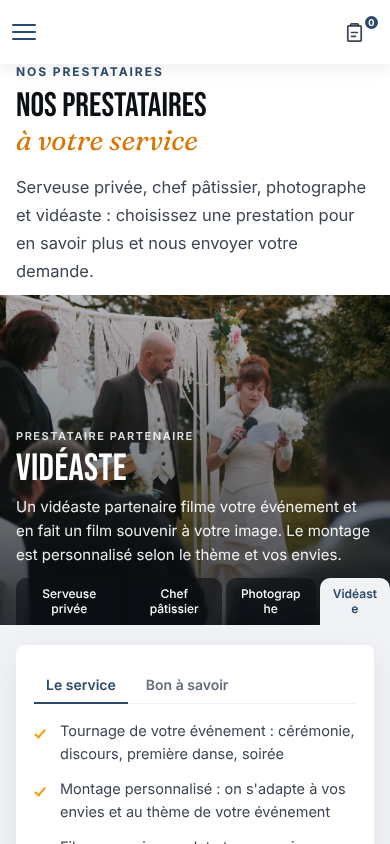
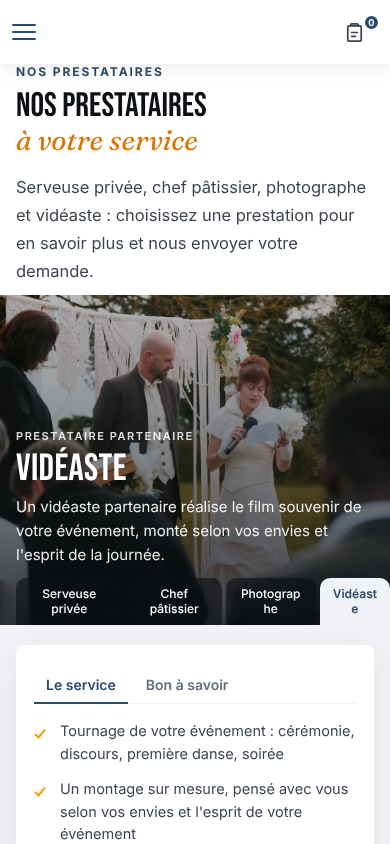
Photographe et vidéaste : formulation sur mesure
Claude-Session: https://claude.ai/code/session_01WQLdmRPaukAjSKqYYAyhYN

Changed region(s): [[0.0308, 0.5853, 0.9538, 0.6777], [0.1538, 0.9242, 0.8923, 1.0]]

diff --git a/site/evenements.html b/site/evenements.html
@@ -948,13 +948,13 @@ var PR=[
   infos:['Prestation réalisée par Emmanuel, prestataire partenaire. Vespra Event encaisse pour son compte et assure la coordination.','Prestation sur devis : selon le nombre de parts, le thème et la complexité','Indiquez vos envies, allergies et contraintes dans les précisions','Prévoyez de commander plusieurs semaines à l\'avance'],
   champs:'parts'},
  {id:'photographe',nom:'Photographe',court:'Photographe',img:'mariage-film-parasol.webp',photo:true,
-  titre:'Photographe',accroche:'Un photographe partenaire immortalise votre événement : les moments forts, les émotions, vos invités. La retouche est personnalisée selon votre thème et vos envies.',
-  service:['Reportage photo de votre événement : préparatifs, cérémonie, vin d\'honneur, soirée','Photos de groupe et portraits, organisés sans perdre de temps','Retouche personnalisée : on s\'adapte à vos envies et au thème de votre événement','Sélection des meilleures photos, avec les moments que vous tenez à retrouver','Remise des photos en haute définition, en galerie en ligne'],
+  titre:'Photographe',accroche:'Un photographe partenaire capture les moments forts, les émotions et vos invités, avec une retouche pensée selon vos envies.',
+  service:['Reportage photo de votre événement : préparatifs, cérémonie, vin d\'honneur, soirée','Photos de groupe et portraits, organisés sans perdre de temps','Une retouche sur mesure, à l\'image de votre événement et de vos envies','Sélection des meilleures photos, avec les moments que vous tenez à retrouver','Remise des photos en haute définition, en galerie en ligne'],
   infos:['Prestation réalisée par un photographe partenaire. Vespra Event encaisse pour son compte et assure la coordination.','Prestation sur devis : le prix dépend de la durée et des moments à couvrir','Précisez l\'horaire de début et de fin souhaité','Vous pouvez la combiner avec le photobooth et le vidéobooth'],
   champs:'heures',rdv:'Un rendez-vous sera organisé avec le photographe partenaire : vous échangez sur vos envies, le déroulé et les moments à ne pas manquer.'},
  {id:'videaste',nom:'Vidéaste',court:'Vidéaste',img:'mariage-film-ceremonie.webp',photo:true,
-  titre:'Vidéaste',accroche:'Un vidéaste partenaire filme votre événement et en fait un film souvenir à votre image. Le montage est personnalisé selon le thème et vos envies.',
-  service:['Tournage de votre événement : cérémonie, discours, première danse, soirée','Montage personnalisé : on s\'adapte à vos envies et au thème de votre événement','Film souvenir complet et une version courte à partager sur les réseaux','Prises de vue soignées, discrètes pour vos invités','Remise des vidéos en haute définition'],
+  titre:'Vidéaste',accroche:'Un vidéaste partenaire réalise le film souvenir de votre événement, monté selon vos envies et l\'esprit de la journée.',
+  service:['Tournage de votre événement : cérémonie, discours, première danse, soirée','Un montage sur mesure, pensé avec vous selon vos envies et l\'esprit de votre événement','Film souvenir complet et une version courte à partager sur les réseaux','Prises de vue soignées, discrètes pour vos invités','Remise des vidéos en haute définition'],
   infos:['Prestation réalisée par un vidéaste partenaire. Vespra Event encaisse pour son compte et assure la coordination.','Prestation sur devis : le prix dépend de la durée de tournage et du montage souhaité','Précisez l\'horaire de début et de fin souhaité','Vous pouvez la combiner avec le photobooth et le vidéobooth'],
   champs:'heures',rdv:'Un rendez-vous sera organisé avec le vidéaste partenaire : vous échangez sur le film que vous souhaitez et le déroulé de la journée.'}
 ];

diff --git a/site/organisation-anniversaire-entreprise.html b/site/organisation-anniversaire-entreprise.html
@@ -923,13 +923,13 @@ var PR=[
   infos:['Prestation réalisée par Emmanuel, prestataire partenaire. Vespra Event encaisse pour son compte et assure la coordination.','Prestation sur devis : selon le nombre de parts, le thème et la complexité','Indiquez vos envies, allergies et contraintes dans les précisions','Prévoyez de commander plusieurs semaines à l\'avance'],
   champs:'parts'},
  {id:'photographe',nom:'Photographe',court:'Photographe',img:'mariage-film-parasol.webp',photo:true,
-  titre:'Photographe',accroche:'Un photographe partenaire immortalise votre événement : les moments forts, les émotions, vos invités. La retouche est personnalisée selon votre thème et vos envies.',
-  service:['Reportage photo de votre événement : préparatifs, cérémonie, vin d\'honneur, soirée','Photos de groupe et portraits, organisés sans perdre de temps','Retouche personnalisée : on s\'adapte à vos envies et au thème de votre événement','Sélection des meilleures photos, avec les moments que vous tenez à retrouver','Remise des photos en haute définition, en galerie en ligne'],
+  titre:'Photographe',accroche:'Un photographe partenaire capture les moments forts, les émotions et vos invités, avec une retouche pensée selon vos envies.',
+  service:['Reportage photo de votre événement : préparatifs, cérémonie, vin d\'honneur, soirée','Photos de groupe et portraits, organisés sans perdre de temps','Une retouche sur mesure, à l\'image de votre événement et de vos envies','Sélection des meilleures photos, avec les moments que vous tenez à retrouver','Remise des photos en haute définition, en galerie en ligne'],
   infos:['Prestation réalisée par un photographe partenaire. Vespra Event encaisse pour son compte et assure la coordination.','Prestation sur devis : le prix dépend de la durée et des moments à couvrir','Précisez l\'horaire de début et de fin souhaité','Vous pouvez la combiner avec le photobooth et le vidéobooth'],
   champs:'heures',rdv:'Un rendez-vous sera organisé avec le photographe partenaire : vous échangez sur vos envies, le déroulé et les moments à ne pas manquer.'},
  {id:'videaste',nom:'Vidéaste',court:'Vidéaste',img:'mariage-film-ceremonie.webp',photo:true,
-  titre:'Vidéaste',accroche:'Un vidéaste partenaire filme votre événement et en fait un film souvenir à votre image. Le montage est personnalisé selon le thème et vos envies.',
-  service:['Tournage de votre événement : cérémonie, discours, première danse, soirée','Montage personnalisé : on s\'adapte à vos envies et au thème de votre événement','Film souvenir complet et une version courte à partager sur les réseaux','Prises de vue soignées, discrètes pour vos invités','Remise des vidéos en haute définition'],
+  titre:'Vidéaste',accroche:'Un vidéaste partenaire réalise le film souvenir de votre événement, monté selon vos envies et l\'esprit de la journée.',
+  service:['Tournage de votre événement : cérémonie, discours, première danse, soirée','Un montage sur mesure, pensé avec vous selon vos envies et l\'esprit de votre événement','Film souvenir complet et une version courte à partager sur les réseaux','Prises de vue soignées, discrètes pour vos invités','Remise des vidéos en haute définition'],
   infos:['Prestation réalisée par un vidéaste partenaire. Vespra Event encaisse pour son compte et assure la coordination.','Prestation sur devis : le prix dépend de la durée de tournage et du montage souhaité','Précisez l\'horaire de début et de fin souhaité','Vous pouvez la combiner avec le photobooth et le vidéobooth'],
   champs:'heures',rdv:'Un rendez-vous sera organisé avec le vidéaste partenaire : vous échangez sur le film que vous souhaitez et le déroulé de la journée.'}
 ];

diff --git a/site/organisation-anniversaire.html b/site/organisation-anniversaire.html
@@ -922,13 +922,13 @@ var PR=[
   infos:['Prestation réalisée par Emmanuel, prestataire partenaire. Vespra Event encaisse pour son compte et assure la coordination.','Prestation sur devis : selon le nombre de parts, le thème et la complexité','Indiquez vos envies, allergies et contraintes dans les précisions','Prévoyez de commander plusieurs semaines à l\'avance'],
   champs:'parts'},
  {id:'photographe',nom:'Photographe',court:'Photographe',img:'mariage-film-parasol.webp',photo:true,
-  titre:'Photographe',accroche:'Un photographe partenaire immortalise votre événement : les moments forts, les émotions, vos invités. La retouche est personnalisée selon votre thème et vos envies.',
-  service:['Reportage photo de votre événement : préparatifs, cérémonie, vin d\'honneur, soirée','Photos de groupe et portraits, organisés sans perdre de temps','Retouche personnalisée : on s\'adapte à vos envies et au thème de votre événement','Sélection des meilleures photos, avec les moments que vous tenez à retrouver','Remise des photos en haute définition, en galerie en ligne'],
+  titre:'Photographe',accroche:'Un photographe partenaire capture les moments forts, les émotions et vos invités, avec une retouche pensée selon vos envies.',
+  service:['Reportage photo de votre événement : préparatifs, cérémonie, vin d\'honneur, soirée','Photos de groupe et portraits, organisés sans perdre de temps','Une retouche sur mesure, à l\'image de votre événement et de vos envies','Sélection des meilleures photos, avec les moments que vous tenez à retrouver','Remise des photos en haute définition, en galerie en ligne'],
   infos:['Prestation réalisée par un photographe partenaire. Vespra Event encaisse pour son compte et assure la coordination.','Prestation sur devis : le prix dépend de la durée et des moments à couvrir','Précisez l\'horaire de début et de fin souhaité','Vous pouvez la combiner avec le photobooth et le vidéobooth'],
   champs:'heures',rdv:'Un rendez-vous sera organisé avec le photographe partenaire : vous échangez sur vos envies, le déroulé et les moments à ne pas manquer.'},
  {id:'videaste',nom:'Vidéaste',court:'Vidéaste',img:'mariage-film-ceremonie.webp',photo:true,
-  titre:'Vidéaste',accroche:'Un vidéaste partenaire filme votre événement et en fait un film souvenir à votre image. Le montage est personnalisé selon le thème et vos envies.',
-  service:['Tournage de votre événement : cérémonie, discours, première danse, soirée','Montage personnalisé : on s\'adapte à vos envies et au thème de votre événement','Film souvenir complet et une version courte à partager sur les réseaux','Prises de vue soignées, discrètes pour vos invités','Remise des vidéos en haute définition'],
+  titre:'Vidéaste',accroche:'Un vidéaste partenaire réalise le film souvenir de votre événement, monté selon vos envies et l\'esprit de la journée.',
+  service:['Tournage de votre événement : cérémonie, discours, première danse, soirée','Un montage sur mesure, pensé avec vous selon vos envies et l\'esprit de votre événement','Film souvenir complet et une version courte à partager sur les réseaux','Prises de vue soignées, discrètes pour vos invités','Remise des vidéos en haute définition'],
   infos:['Prestation réalisée par un vidéaste partenaire. Vespra Event encaisse pour son compte et assure la coordination.','Prestation sur devis : le prix dépend de la durée de tournage et du montage souhaité','Précisez l\'horaire de début et de fin souhaité','Vous pouvez la combiner avec le photobooth et le vidéobooth'],
   champs:'heures',rdv:'Un rendez-vous sera organisé avec le vidéaste partenaire : vous échangez sur le film que vous souhaitez et le déroulé de la journée.'}
 ];

diff --git a/site/organisation-evenements-entreprises.html b/site/organisation-evenements-entreprises.html
@@ -927,13 +927,13 @@ var PR=[
   infos:['Prestation réalisée par Emmanuel, prestataire partenaire. Vespra Event encaisse pour son compte et assure la coordination.','Prestation sur devis : selon le nombre de parts, le thème et la complexité','Indiquez vos envies, allergies et contraintes dans les précisions','Prévoyez de commander plusieurs semaines à l\'avance'],
   champs:'parts'},
  {id:'photographe',nom:'Photographe',court:'Photographe',img:'mariage-film-parasol.webp',photo:true,
-  titre:'Photographe',accroche:'Un photographe partenaire immortalise votre événement : les moments forts, les émotions, vos invités. La retouche est personnalisée selon votre thème et vos envies.',
-  service:['Reportage photo de votre événement : préparatifs, cérémonie, vin d\'honneur, soirée','Photos de groupe et portraits, organisés sans perdre de temps','Retouche personnalisée : on s\'adapte à vos envies et au thème de votre événement','Sélection des meilleures photos, avec les moments que vous tenez à retrouver','Remise des photos en haute définition, en galerie en ligne'],
+  titre:'Photographe',accroche:'Un photographe partenaire capture les moments forts, les émotions et vos invités, avec une retouche pensée selon vos envies.',
+  service:['Reportage photo de votre événement : préparatifs, cérémonie, vin d\'honneur, soirée','Photos de groupe et portraits, organisés sans perdre de temps','Une retouche sur mesure, à l\'image de votre événement et de vos envies','Sélection des meilleures photos, avec les moments que vous tenez à retrouver','Remise des photos en haute définition, en galerie en ligne'],
   infos:['Prestation réalisée par un photographe partenaire. Vespra Event encaisse pour son compte et assure la coordination.','Prestation sur devis : le prix dépend de la durée et des moments à couvrir','Précisez l\'horaire de début et de fin souhaité','Vous pouvez la combiner avec le photobooth et le vidéobooth'],
   champs:'heures',rdv:'Un rendez-vous sera organisé avec le photographe partenaire : vous échangez sur vos envies, le déroulé et les moments à ne pas manquer.'},
  {id:'videaste',nom:'Vidéaste',court:'Vidéaste',img:'mariage-film-ceremonie.webp',photo:true,
-  titre:'Vidéaste',accroche:'Un vidéaste partenaire filme votre événement et en fait un film souvenir à votre image. Le montage est personnalisé selon le thème et vos envies.',
-  service:['Tournage de votre événement : cérémonie, discours, première danse, soirée','Montage personnalisé : on s\'adapte à vos envies et au thème de votre événement','Film souvenir complet et une version courte à partager sur les réseaux','Prises de vue soignées, discrètes pour vos invités','Remise des vidéos en haute définition'],
+  titre:'Vidéaste',accroche:'Un vidéaste partenaire réalise le film souvenir de votre événement, monté selon vos envies et l\'esprit de la journée.',
+  service:['Tournage de votre événement : cérémonie, discours, première danse, soirée','Un montage sur mesure, pensé avec vous selon vos envies et l\'esprit de votre événement','Film souvenir complet et une version courte à partager sur les réseaux','Prises de vue soignées, discrètes pour vos invités','Remise des vidéos en haute définition'],
   infos:['Prestation réalisée par un vidéaste partenaire. Vespra Event encaisse pour son compte et assure la coordination.','Prestation sur devis : le prix dépend de la durée de tournage et du montage souhaité','Précisez l\'horaire de début et de fin souhaité','Vous pouvez la combiner avec le photobooth et le vidéobooth'],
   champs:'heures',rdv:'Un rendez-vous sera organisé avec le vidéaste partenaire : vous échangez sur le film que vous souhaitez et le déroulé de la journée.'}
 ];

diff --git a/site/organisation-mariage.html b/site/organisation-mariage.html
@@ -923,13 +923,13 @@ var PR=[
   infos:['Prestation réalisée par Emmanuel, prestataire partenaire. Vespra Event encaisse pour son compte et assure la coordination.','Prestation sur devis : selon le nombre de parts, le thème et la complexité','Indiquez vos envies, allergies et contraintes dans les précisions','Prévoyez de commander plusieurs semaines à l\'avance'],
   champs:'parts'},
  {id:'photographe',nom:'Photographe',court:'Photographe',img:'mariage-film-parasol.webp',photo:true,
-  titre:'Photographe',accroche:'Un photographe partenaire immortalise votre événement : les moments forts, les émotions, vos invités. La retouche est personnalisée selon votre thème et vos envies.',
-  service:['Reportage photo de votre événement : préparatifs, cérémonie, vin d\'honneur, soirée','Photos de groupe et portraits, organisés sans perdre de temps','Retouche personnalisée : on s\'adapte à vos envies et au thème de votre événement','Sélection des meilleures photos, avec les moments que vous tenez à retrouver','Remise des photos en haute définition, en galerie en ligne'],
+  titre:'Photographe',accroche:'Un photographe partenaire capture les moments forts, les émotions et vos invités, avec une retouche pensée selon vos envies.',
+  service:['Reportage photo de votre événement : préparatifs, cérémonie, vin d\'honneur, soirée','Photos de groupe et portraits, organisés sans perdre de temps','Une retouche sur mesure, à l\'image de votre événement et de vos envies','Sélection des meilleures photos, avec les moments que vous tenez à retrouver','Remise des photos en haute définition, en galerie en ligne'],
   infos:['Prestation réalisée par un photographe partenaire. Vespra Event encaisse pour son compte et assure la coordination.','Prestation sur devis : le prix dépend de la durée et des moments à couvrir','Précisez l\'horaire de début et de fin souhaité','Vous pouvez la combiner avec le photobooth et le vidéobooth'],
   champs:'heures',rdv:'Un rendez-vous sera organisé avec le photographe partenaire : vous échangez sur vos envies, le déroulé et les moments à ne pas manquer.'},
  {id:'videaste',nom:'Vidéaste',court:'Vidéaste',img:'mariage-film-ceremonie.webp',photo:true,
-  titre:'Vidéaste',accroche:'Un vidéaste partenaire filme votre événement et en fait un film souvenir à votre image. Le montage est personnalisé selon le thème et vos envies.',
-  service:['Tournage de votre événement : cérémonie, discours, première danse, soirée','Montage personnalisé : on s\'adapte à vos envies et au thème de votre événement','Film souvenir complet et une version courte à partager sur les réseaux','Prises de vue soignées, discrètes pour vos invités','Remise des vidéos en haute définition'],
+  titre:'Vidéaste',accroche:'Un vidéaste partenaire réalise le film souvenir de votre événement, monté selon vos envies et l\'esprit de la journée.',
+  service:['Tournage de votre événement : cérémonie, discours, première danse, soirée','Un montage sur mesure, pensé avec vous selon vos envies et l\'esprit de votre événement','Film souvenir complet et une version courte à partager sur les réseaux','Prises de vue soignées, discrètes pour vos invités','Remise des vidéos en haute définition'],
   infos:['Prestation réalisée par un vidéaste partenaire. Vespra Event encaisse pour son compte et assure la coordination.','Prestation sur devis : le prix dépend de la durée de tournage et du montage souhaité','Précisez l\'horaire de début et de fin souhaité','Vous pouvez la combiner avec le photobooth et le vidéobooth'],
   champs:'heures',rdv:'Un rendez-vous sera organisé avec le vidéaste partenaire : vous échangez sur le film que vous souhaitez et le déroulé de la journée.'}
 ];

diff --git a/site/organisation-seminaire.html b/site/organisation-seminaire.html
@@ -923,13 +923,13 @@ var PR=[
   infos:['Prestation réalisée par Emmanuel, prestataire partenaire. Vespra Event encaisse pour son compte et assure la coordination.','Prestation sur devis : selon le nombre de parts, le thème et la complexité','Indiquez vos envies, allergies et contraintes dans les précisions','Prévoyez de commander plusieurs semaines à l\'avance'],
   champs:'parts'},
  {id:'photographe',nom:'Photographe',court:'Photographe',img:'mariage-film-parasol.webp',photo:true,
-  titre:'Photographe',accroche:'Un photographe partenaire immortalise votre événement : les moments forts, les émotions, vos invités. La retouche est personnalisée selon votre thème et vos envies.',
-  service:['Reportage photo de votre événement : préparatifs, cérémonie, vin d\'honneur, soirée','Photos de groupe et portraits, organisés sans perdre de temps','Retouche personnalisée : on s\'adapte à vos envies et au thème de votre événement','Sélection des meilleures photos, avec les moments que vous tenez à retrouver','Remise des photos en haute définition, en galerie en ligne'],
+  titre:'Photographe',accroche:'Un photographe partenaire capture les moments forts, les émotions et vos invités, avec une retouche pensée selon vos envies.',
+  service:['Reportage photo de votre événement : préparatifs, cérémonie, vin d\'honneur, soirée','Photos de groupe et portraits, organisés sans perdre de temps','Une retouche sur mesure, à l\'image de votre événement et de vos envies','Sélection des meilleures photos, avec les moments que vous tenez à retrouver','Remise des photos en haute définition, en galerie en ligne'],
   infos:['Prestation réalisée par un photographe partenaire. Vespra Event encaisse pour son compte et assure la coordination.','Prestation sur devis : le prix dépend de la durée et des moments à couvrir','Précisez l\'horaire de début et de fin souhaité','Vous pouvez la combiner avec le photobooth et le vidéobooth'],
   champs:'heures',rdv:'Un rendez-vous sera organisé avec le photographe partenaire : vous échangez sur vos envies, le déroulé et les moments à ne pas manquer.'},
  {id:'videaste',nom:'Vidéaste',court:'Vidéaste',img:'mariage-film-ceremonie.webp',photo:true,
-  titre:'Vidéaste',accroche:'Un vidéaste partenaire filme votre événement et en fait un film souvenir à votre image. Le montage est personnalisé selon le thème et vos envies.',
-  service:['Tournage de votre événement : cérémonie, discours, première danse, soirée','Montage personnalisé : on s\'adapte à vos envies et au thème de votre événement','Film souvenir complet et une version courte à partager sur les réseaux','Prises de vue soignées, discrètes pour vos invités','Remise des vidéos en haute définition'],
+  titre:'Vidéaste',accroche:'Un vidéaste partenaire réalise le film souvenir de votre événement, monté selon vos envies et l\'esprit de la journée.',
+  service:['Tournage de votre événement : cérémonie, discours, première danse, soirée','Un montage sur mesure, pensé avec vous selon vos envies et l\'esprit de votre événement','Film souvenir complet et une version courte à partager sur les réseaux','Prises de vue soignées, discrètes pour vos invités','Remise des vidéos en haute définition'],
   infos:['Prestation réalisée par un vidéaste partenaire. Vespra Event encaisse pour son compte et assure la coordination.','Prestation sur devis : le prix dépend de la durée de tournage et du montage souhaité','Précisez l\'horaire de début et de fin souhaité','Vous pouvez la combiner avec le photobooth et le vidéobooth'],
   champs:'heures',rdv:'Un rendez-vous sera organisé avec le vidéaste partenaire : vous échangez sur le film que vous souhaitez et le déroulé de la journée.'}
 ];

diff --git a/site/organisation-soiree-entreprise.html b/site/organisation-soiree-entreprise.html
@@ -923,13 +923,13 @@ var PR=[
   infos:['Prestation réalisée par Emmanuel, prestataire partenaire. Vespra Event encaisse pour son compte et assure la coordination.','Prestation sur devis : selon le nombre de parts, le thème et la complexité','Indiquez vos envies, allergies et contraintes dans les précisions','Prévoyez de commander plusieurs semaines à l\'avance'],
   champs:'parts'},
  {id:'photographe',nom:'Photographe',court:'Photographe',img:'mariage-film-parasol.webp',photo:true,
-  titre:'Photographe',accroche:'Un photographe partenaire immortalise votre événement : les moments forts, les émotions, vos invités. La retouche est personnalisée selon votre thème et vos envies.',
-  service:['Reportage photo de votre événement : préparatifs, cérémonie, vin d\'honneur, soirée','Photos de groupe et portraits, organisés sans perdre de temps','Retouche personnalisée : on s\'adapte à vos envies et au thème de votre événement','Sélection des meilleures photos, avec les moments que vous tenez à retrouver','Remise des photos en haute définition, en galerie en ligne'],
+  titre:'Photographe',accroche:'Un photographe partenaire capture les moments forts, les émotions et vos invités, avec une retouche pensée selon vos envies.',
+  service:['Reportage photo de votre événement : préparatifs, cérémonie, vin d\'honneur, soirée','Photos de groupe et portraits, organisés sans perdre de temps','Une retouche sur mesure, à l\'image de votre événement et de vos envies','Sélection des meilleures photos, avec les moments que vous tenez à retrouver','Remise des photos en haute définition, en galerie en ligne'],
   infos:['Prestation réalisée par un photographe partenaire. Vespra Event encaisse pour son compte et assure la coordination.','Prestation sur devis : le prix dépend de la durée et des moments à couvrir','Précisez l\'horaire de début et de fin souhaité','Vous pouvez la combiner avec le photobooth et le vidéobooth'],
   champs:'heures',rdv:'Un rendez-vous sera organisé avec le photographe partenaire : vous échangez sur vos envies, le déroulé et les moments à ne pas manquer.'},
  {id:'videaste',nom:'Vidéaste',court:'Vidéaste',img:'mariage-film-ceremonie.webp',photo:true,
-  titre:'Vidéaste',accroche:'Un vidéaste partenaire filme votre événement et en fait un film souvenir à votre image. Le montage est personnalisé selon le thème et vos envies.',
-  service:['Tournage de votre événement : cérémonie, discours, première danse, soirée','Montage personnalisé : on s\'adapte à vos envies et au thème de votre événement','Film souvenir complet et une version courte à partager sur les réseaux','Prises de vue soignées, discrètes pour vos invités','Remise des vidéos en haute définition'],
+  titre:'Vidéaste',accroche:'Un vidéaste partenaire réalise le film souvenir de votre événement, monté selon vos envies et l\'esprit de la journée.',
+  service:['Tournage de votre événement : cérémonie, discours, première danse, soirée','Un montage sur mesure, pensé avec vous selon vos envies et l\'esprit de votre événement','Film souvenir complet et une version courte à partager sur les réseaux','Prises de vue soignées, discrètes pour vos invités','Remise des vidéos en haute définition'],
   infos:['Prestation réalisée par un vidéaste partenaire. Vespra Event encaisse pour son compte et assure la coordination.','Prestation sur devis : le prix dépend de la durée de tournage et du montage souhaité','Précisez l\'horaire de début et de fin souhaité','Vous pouvez la combiner avec le photobooth et le vidéobooth'],
   champs:'heures',rdv:'Un rendez-vous sera organisé avec le vidéaste partenaire : vous échangez sur le film que vous souhaitez et le déroulé de la journée.'}
 ];

diff --git a/site/prestataires.js b/site/prestataires.js
@@ -60,13 +60,13 @@ window.VESPRA_PRESTATAIRES = [
   {
     metier: "Photographe", nom: "Photographe partenaire", type: "Reportage photo de votre événement",
     commune: "Vitré",
-    mot: "Reportage photo de votre mariage ou de votre événement : moments forts, portraits, photos de groupe. Retouche personnalisée selon votre thème et vos envies.",
+    mot: "Reportage photo de votre mariage ou de votre événement : moments forts, portraits, photos de groupe. Une retouche sur mesure, à l'image de vos envies.",
     site: "", tel: "", lien: "/evenements.html#photographe", exemple: false
   },
   {
     metier: "Vidéaste", nom: "Vidéaste partenaire", type: "Film souvenir de votre événement",
     commune: "Vitré",
-    mot: "Tournage et film souvenir de votre événement, monté selon votre thème et vos envies, avec une version courte à partager.",
+    mot: "Le film souvenir de votre événement, monté sur mesure selon vos envies, avec une version courte à partager.",
     site: "", tel: "", lien: "/evenements.html#videaste", exemple: false
   },
 
